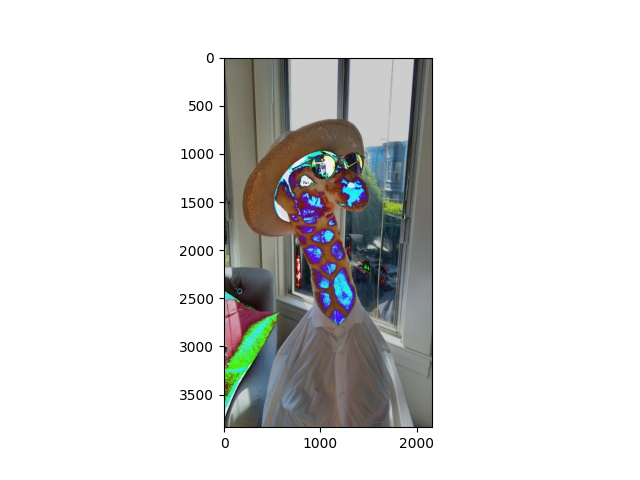
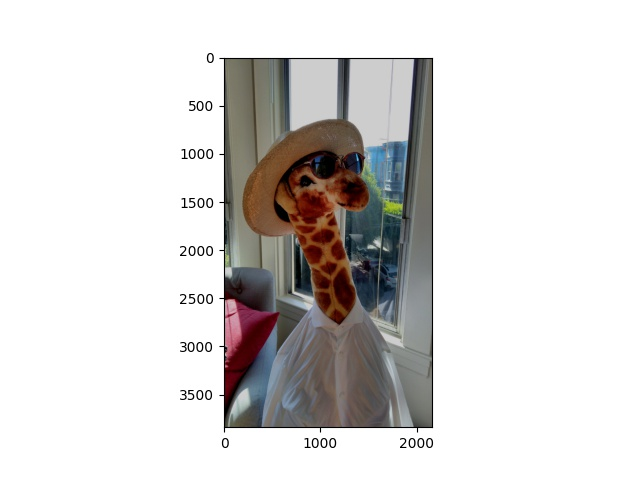
small update

diff --git a/images/Q4.py b/images/Q4.py
@@ -3,7 +3,9 @@ import matplotlib.pyplot as plt
 import numpy as np
 
 I =  io.imread('gigi.jpg')
+I[I<50] = 50
 I = I - 50
 I = img_as_float32(I)
-plt.imshow( I )
-plt.savefig('gigi_reduced.jpg')
+plt.imshow(I)
+plt.show()
+##plt.savefig('gigi_reduced.jpg')
